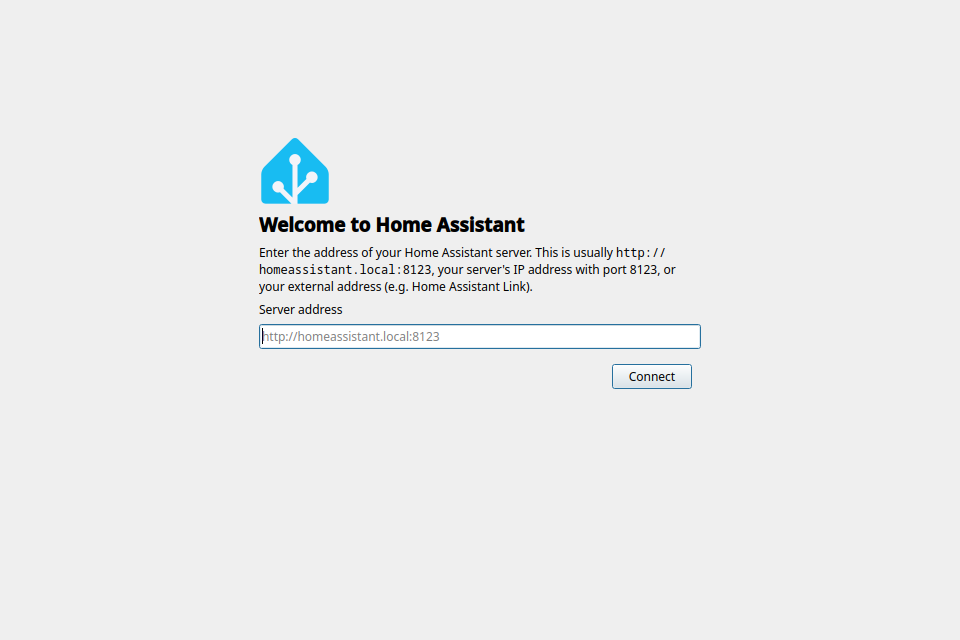
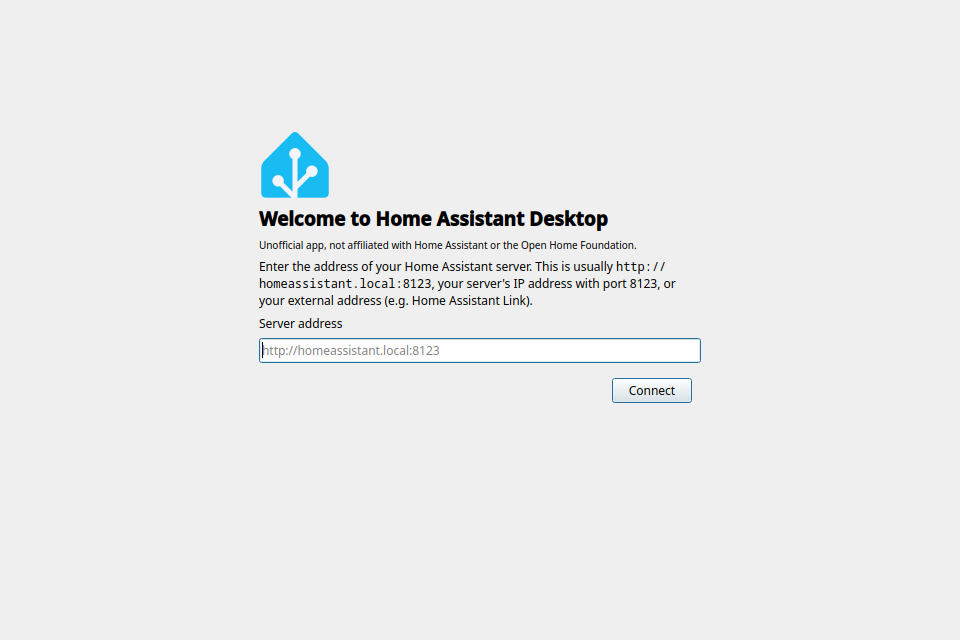
Openbaar maken: onofficiële naam, MIT-licentie, uitleg (0.3.0)
- Naam: Home Assistant Desktop (onofficieel), met disclaimer in de app
- MIT-licentie; logo en naam expliciet uitgezonderd
- README: waarom deze app (vervanger van de PWA, met meldingen) en vibecoded-vermelding

Changed region(s): [[0.25, 0.1875, 0.7188, 0.5625], [0.625, 0.5625, 0.7188, 0.625]]

diff --git a/ha_desktop/onboarding.py b/ha_desktop/onboarding.py
@@ -187,6 +187,8 @@ class Onboarding(QWidget):
         return _card(
             logo,
             _title(_("Welcome to {app}").format(app=APP_NAME)),
+            _wrap("<small>" + _("Unofficial app, not affiliated with Home Assistant or the "
+                                "Open Home Foundation.") + "</small>"),
             _wrap(_("Enter the address of your Home Assistant server. This is usually "
                     "<code>http://homeassistant.local:8123</code>, your server's IP address with port 8123, "
                     "or your external address (e.g. Home Assistant Link).")),

diff --git a/ha_desktop/translations.py b/ha_desktop/translations.py
@@ -64,6 +64,8 @@ NL = {
     "Give this computer a name.": "Geef deze computer een naam.",
     "Connect": "Verbinden",
     "Welcome to {app}": "Welkom bij {app}",
+    "Unofficial app, not affiliated with Home Assistant or the Open Home Foundation.":
+        "Onofficiële app, niet verbonden aan Home Assistant of de Open Home Foundation.",
     "Enter the address of your Home Assistant server. This is usually "
     "<code>http://homeassistant.local:8123</code>, your server's IP address with port 8123, "
     "or your external address (e.g. Home Assistant Link).":

diff --git a/ha_desktop/__init__.py b/ha_desktop/__init__.py
@@ -1,6 +1,6 @@
-"""Home Assistant-desktopapp voor Linux."""
+"""Home Assistant Desktop (onofficieel) — desktopapp voor Linux."""
 
-__version__ = "0.2.1"
+__version__ = "0.3.0"
 
 APP_ID = "com.nordicnode.HADesktop"
-APP_NAME = "Home Assistant"
+APP_NAME = "Home Assistant Desktop"

diff --git a/README.md b/README.md
@@ -2,11 +2,17 @@
 
 <img src="ha_desktop/data/com.nordicnode.HADesktop.svg" width="128" alt="">
 
-# Home Assistant voor Linux
+# Home Assistant Desktop
+
+*Onofficiële Home Assistant-app voor Linux*
 
 **🇳🇱 Nederlands** · [🇬🇧 English](README.en.md)
 
 **Je Home Assistant-dashboard als echte desktop-app — met meldingen op je bureaublad.**
+
+![Licentie: MIT](https://img.shields.io/badge/licentie-MIT-blue?style=flat-square)
+![Vibecoded](https://img.shields.io/badge/vibecoded-met%20Claude-D97757?style=flat-square)
+![Onofficieel](https://img.shields.io/badge/onofficieel-niet%20van%20Home%20Assistant-lightgrey?style=flat-square)
 
 [![Download](https://img.shields.io/badge/download-RPM-18BCF2?style=for-the-badge&logo=homeassistant&logoColor=white)](../../releases/latest)
 ![Fedora](https://img.shields.io/badge/Fedora-44-51A2DA?style=for-the-badge&logo=fedora&logoColor=white)
@@ -17,6 +23,21 @@
 </div>
 
 ---
+
+## 💡 Waarom deze app?
+
+Op Linux kun je Home Assistant als **PWA** installeren (*"App installeren"* in je browser).
+Dat werkt, maar meldingen van je automatiseringen krijg je zo niet: de officiële apps met
+pushmeldingen bestaan alleen voor Android en iOS.
+
+Deze app **vervangt die PWA** en voegt toe wat ontbreekt: echte **bureaubladmeldingen**.
+Je pc wordt in Home Assistant een apparaat, net als je telefoon, en je stuurt er meldingen
+naartoe met `notify.mobile_app_<naam>`.
+
+> 🤖 **Vibecoded.** Deze app is volledig geschreven door AI (Claude van Anthropic) op
+> aanwijzing van een gebruiker zonder programmeerervaring. Hij is getest met
+> geautomatiseerde tests en dagelijks gebruik, maar niet door een ervaren ontwikkelaar
+> nagekeken. Gebruik is op eigen risico; problemen melden kan via *Issues*.
 
 ## ✨ Wat kan het?
 
@@ -38,7 +59,7 @@
    ```sh
    sudo dnf install ./ha-desktop-*.noarch.rpm
    ```
-3. Start **Home Assistant** vanuit het menu.
+3. Start **Home Assistant Desktop** vanuit het menu.
 
 Verwijderen: `sudo dnf remove ha-desktop`
 
@@ -177,6 +198,13 @@ gebruiken; zet meldingen dan in maar één van beide aan.
 
 ---
 
-<sub>Dit is geen officieel Home Assistant-project. Naam en logo zijn merken van de
-[Open Home Foundation](https://www.openhomefoundation.org/) en worden hier alleen gebruikt
-voor privé, niet-commercieel gebruik.</sub>
+## 📄 Licentie
+
+De code valt onder de [MIT-licentie](LICENSE): je mag hem vrij gebruiken, aanpassen en
+delen, met naamsvermelding.
+
+<sub>**Dit is geen officieel Home Assistant-project** en is niet verbonden aan de
+[Open Home Foundation](https://www.openhomefoundation.org/) of Nabu Casa. De naam Home
+Assistant en het logo zijn merken van de Open Home Foundation, vallen niet onder de
+MIT-licentie en worden hier alleen niet-commercieel gebruikt, om aan te geven waarvoor
+de app bedoeld is.</sub>

diff --git a/README.en.md b/README.en.md
@@ -2,11 +2,17 @@
 
 <img src="ha_desktop/data/com.nordicnode.HADesktop.svg" width="128" alt="">
 
-# Home Assistant for Linux
+# Home Assistant Desktop
+
+*Unofficial Home Assistant app for Linux*
 
 [🇳🇱 Nederlands](README.md) · **🇬🇧 English**
 
 **Your Home Assistant dashboard as a real desktop app — with notifications on your desktop.**
+
+![License: MIT](https://img.shields.io/badge/license-MIT-blue?style=flat-square)
+![Vibecoded](https://img.shields.io/badge/vibecoded-with%20Claude-D97757?style=flat-square)
+![Unofficial](https://img.shields.io/badge/unofficial-not%20by%20Home%20Assistant-lightgrey?style=flat-square)
 
 [![Download](https://img.shields.io/badge/download-RPM-18BCF2?style=for-the-badge&logo=homeassistant&logoColor=white)](../../releases/latest)
 ![Fedora](https://img.shields.io/badge/Fedora-44-51A2DA?style=for-the-badge&logo=fedora&logoColor=white)
@@ -17,6 +23,21 @@
 </div>
 
 ---
+
+## 💡 Why this app?
+
+On Linux you can install Home Assistant as a **PWA** (*"Install app"* in your browser).
+That works, but you don't get notifications from your automations: the official apps
+with push notifications only exist for Android and iOS.
+
+This app **replaces that PWA** and adds what's missing: real **desktop notifications**.
+Your PC becomes a device in Home Assistant, just like your phone, and you send
+notifications to it with `notify.mobile_app_<name>`.
+
+> 🤖 **Vibecoded.** This app was written entirely by AI (Claude by Anthropic), directed by
+> a user without programming experience. It is covered by automated tests and daily use,
+> but has not been reviewed by an experienced developer. Use at your own risk; please
+> report problems via *Issues*.
 
 ## ✨ Features
 
@@ -38,7 +59,7 @@
    ```sh
    sudo dnf install ./ha-desktop-*.noarch.rpm
    ```
-3. Start **Home Assistant** from the menu.
+3. Start **Home Assistant Desktop** from the menu.
 
 Uninstall: `sudo dnf remove ha-desktop`
 
@@ -176,6 +197,12 @@ alongside; just enable notifications in only one of the two.
 
 ---
 
-<sub>This is not an official Home Assistant project. The name and logo are trademarks of the
-[Open Home Foundation](https://www.openhomefoundation.org/) and are used here for private,
-non-commercial use only.</sub>
+## 📄 License
+
+The code is released under the [MIT license](LICENSE): you may freely use, modify and
+share it, with attribution.
+
+<sub>**This is not an official Home Assistant project** and is not affiliated with the
+[Open Home Foundation](https://www.openhomefoundation.org/) or Nabu Casa. The Home Assistant
+name and logo are trademarks of the Open Home Foundation, are not covered by the MIT
+license, and are used here non-commercially only, to indicate what the app is for.</sub>
